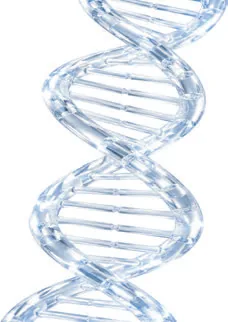
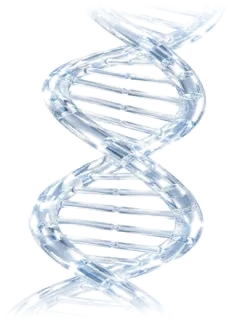
Slider görselleri, sayfa boyunca lipozom, saydam DNA görseli
- Kampanya slider: görseller hemen yüklenir (boş slayt yok), yakınlaştırma
  kaldırıldı (kenar kırpılması yok), noktalar banner'ın altına alındı,
  NAD+ mobil banner büyütüldü
- Lipozom açılıştan LED bölümüne kadar küçük canlı eşlikçi olarak kalır;
  formül bölümünde büyüyüp kesiti açılır, LED'de ışık rengini alır
- dna-crystal.webp saydam zemin (koyu sayfalarda beyaz kutu görünüyordu)

Claude-Session: https://claude.ai/code/session_01XvpMot7LqxZbjZwDPzSGNi

Changed region(s): [[0.0, 0.8696, 0.7982, 1.0], [0.3377, 0.0, 1.0, 0.1242]]

diff --git a/assets/lab/lab.js b/assets/lab/lab.js
@@ -133,6 +133,7 @@ function unlockLed() {
 new IntersectionObserver((es) => { if (es[0].isIntersecting) { ensureSrc(ledVideo); unlockLed(); } }, { rootMargin: '150% 0px' }).observe(S.led.el);
 ['touchstart', 'pointerdown', 'keydown'].forEach((ev) => addEventListener(ev, unlockLed, { once: true, passive: true }));
 let ledLast = -1;
+let ledColor = [0.69, 0.3, 1];
 function updateLed(y) {
   if (!ledVideo) return;
   const p = prog('led', y);
@@ -147,6 +148,7 @@ function updateLed(y) {
     ledLast = idx;
     ledItems.forEach((l, n) => l.el.classList.toggle('on', n === idx && p > -0.05));
     if (ledMedia && idx >= 0) ledMedia.style.setProperty('--led-glow', ledItems[idx].c.trim() + '66');
+    if (idx >= 0) { const n = parseInt(ledItems[idx].c.trim().slice(1), 16); ledColor = [((n >> 16) & 255) / 255, ((n >> 8) & 255) / 255, (n & 255) / 255]; }
   }
 }
 
@@ -253,9 +255,11 @@ function base() {
     top: C.white, bot: C.silver, acc: C.pink, glow: 0.3, rays: 0, caustic: 0, dark: 0,
     pA: 0.7, pCol: C.pinkP, pSpeed: 1,
     surf: 0, rip: 0, cream: 0, mist: 0,
-    lipo: 0, build: 0, cut: 0
+    // Lipozom her bölümde eşlik eder: lanch 1 = ekrana sabit küçük eşlikçi, 0 = sahnede (formül)
+    lipo: 1, build: 1, cut: 0, lanch: 1, lsp: isPhone ? [0.56, 0.64] : [-0.62, 0.5], ld: 6, lsc: isPhone ? 0.22 : 0.26, emis: [0, 0, 0]
   };
 }
+const companion = (P, desk, phone, size) => { P.lanch = 1; P.lsp = isPhone ? phone : desk; P.lsc = size * (isPhone ? 0.8 : 1); return P; };
 function S1(p) {
   const P = base();
   const a = ease(seg(p, 0, 0.72));
@@ -287,13 +291,16 @@ function S2(p) {
   P.acc = pick(C.pink, C.orange, C.teal, C.rose); P.pCol = pick(C.pinkP, C.orP, C.tlP, C.rgP);
   P.glow = 0.55; P.rays = (w1 - w2) * 0.9 + w3 * 0.35; P.caustic = 0.18 + (w1 - w2) * 0.35 + (w2 - w3) * 0.2;
   P.pA = 0.85;
-  return P;
+  return companion(P, [0.8, 0.6], [0.6, 0.66], 0.2);
 }
 function CALM() {
   const P = base();
   P.cam = [0, 0, 8]; P.look = [0, 0, 0]; P.by = 0; P.d0 = 1; P.floor = 0;
   P.top = C.white; P.bot = hex('#E9E9EB'); P.acc = C.pink; P.glow = 0.18; P.pA = 0.2; P.pCol = hex('#E6C9D6'); P.pSpeed = 0.4;
-  return P;
+  return companion(P, [-0.8, -0.62], [0.62, 0.7], 0.26);
+}
+function RUT() {
+  return companion(CALM(), [0.8, 0.42], [0.62, 0.72], 0.34);
 }
 function S3(p) {
   const P = CALM();
@@ -306,7 +313,7 @@ function S3(p) {
   P.sph = 0.12; P.thick = 0.5; P.dropOn = seg(p, 0.01, 0.07) * (1 - i); P.tint = C.serum;
   P.surf = seg(p, 0, 0.1); P.rip = seg(p, 0.36, 0.64); P.cream = easeOut(seg(p, 0.44, 0.8)) * 0.62; P.mist = seg(p, 0.72, 1);
   P.top = C.skinTop; P.bot = C.skinBot; P.acc = C.peach; P.glow = 0.3; P.pA = 0.2; P.pCol = hex('#F4C9B5');
-  return P;
+  return companion(P, [0.74, 0.5], [0.6, 0.66], 0.24);
 }
 function S4(p) {
   const P = CALM();
@@ -315,14 +322,16 @@ function S4(p) {
   P.look = [isPhone ? 0 : 0.3, isPhone ? -0.5 : 0, 0];
   const s = lerp(0.3, 1.02, ease(seg(p, 0, 0.16)));
   P.dropPos = [0, isPhone ? 0.4 : 0, 0]; P.dropS = [s, s, s]; P.sph = 1; P.thick = 1.4; P.tint = C.water; P.dropOn = 1;
-  P.lipo = seg(p, 0.04, 0.14); P.build = seg(p, 0.06, 0.32); P.cut = ease(seg(p, 0.16, 0.44));
+  P.lipo = 1; P.build = 1; P.cut = ease(seg(p, 0.16, 0.44));
+  P.lanch = 0; P.lsc = lerp(0.4, isPhone ? 0.72 : 1, ease(seg(p, 0, 0.2)));
   P.top = C.white; P.bot = hex('#E1E4E9'); P.acc = C.blue; P.glow = 0.35; P.pA = 0.12; P.pCol = hex('#B9D3EE');
   return P;
 }
 function LEDP() {
   const P = CALM();
-  P.top = hex('#0B0B0D'); P.bot = hex('#050506'); P.acc = hex('#7A3BFF'); P.dark = 1; P.glow = 0.4; P.pA = 0;
-  return P;
+  P.top = hex('#0B0B0D'); P.bot = hex('#050506'); P.acc = ledColor; P.dark = 1; P.glow = 0.4; P.pA = 0;
+  P.emis = ledColor.map((v) => v * 0.45);
+  return companion(P, [-0.12, -0.42], [0.6, 0.7], 0.36);
 }
 function timeline(y) {
   let P = S1(clamp(prog('acilis', y)));
@@ -331,6 +340,7 @@ function timeline(y) {
   P = blend(P, S3(clamp(prog('doku', y))), enter('doku', y));
   P = blend(P, S4(clamp(prog('formul', y))), enter('formul', y));
   P = blend(P, CALM(), enter('galeri', y));
+  P = blend(P, RUT(), enter('rutin', y));
   P = blend(P, LEDP(), enter('led', y));
   return P;
 }
@@ -726,16 +736,12 @@ async function initGL() {
   }
   resize();
 
-  let lastKey = '';
+  const vR = new THREE.Vector3(), vU = new THREE.Vector3(), vF = new THREE.Vector3(), vS = new THREE.Vector3(), vW = new THREE.Vector3(), vN = new THREE.Vector3();
   function frame(P, t) {
     const idle = reduce ? 0 : 1;
-    // Ekran tamamen sabit ve görünmezken (LED videosu tam ekran, footer) çizimi atla
-    const key = P.dark > 0.999 ? 'dark' : '';
-    if (key && key === lastKey) return;
-    lastKey = key;
-
     camera.position.set(P.cam[0], P.cam[1], P.cam[2]);
     camera.lookAt(P.look[0], P.look[1], P.look[2]);
+    camera.updateMatrixWorld();
     col(P.top, bgU.uTop.value); col(P.bot, bgU.uBot.value); col(P.acc, bgU.uAcc.value);
     bgU.uGlow.value = P.glow; bgU.uRays.value = P.rays; bgU.uCaustic.value = P.caustic; bgU.uDark.value = P.dark; bgU.uTime.value = t;
 
@@ -774,15 +780,27 @@ async function initGL() {
 
     lipo.visible = P.lipo > 0.01;
     if (lipo.visible) {
-      lipo.position.copy(drop.position);
-      lipo.scale.setScalar(lerp(0.001, isPhone ? 0.72 : 1, ease(P.lipo)));
-      lipo.rotation.set(0.25, scrollY * 0.0004, 0.1);
+      // Ekrana sabit eşlikçi konumu ile sahnedeki (formül) konum arasında karışım
+      const e = camera.matrixWorld.elements;
+      vR.set(e[0], e[1], e[2]); vU.set(e[4], e[5], e[6]); vF.set(-e[8], -e[9], -e[10]);
+      const tanH = Math.tan(THREE.MathUtils.degToRad(camera.fov / 2));
+      vS.copy(vF).addScaledVector(vR, P.lsp[0] * tanH * camera.aspect).addScaledVector(vU, P.lsp[1] * tanH).multiplyScalar(P.ld).add(camera.position);
+      vW.set(P.dropPos[0], P.dropPos[1], P.dropPos[2]);
+      lipo.position.copy(vW).lerp(vS, P.lanch);
+      const breathe = 1 + 0.03 * Math.sin(t * 1.3) * idle;
+      lipo.scale.setScalar(Math.max(0.001, P.lsc * P.lipo * breathe));
+      lipo.rotation.set(0.25 + t * 0.04 * idle * P.lanch, t * 0.16 * idle * P.lanch + scrollY * 0.0004, 0.1);
       buildU.value = P.build * 1.3;
-      clipPlane.constant = lerp(2.4, -0.1, P.cut);
-      actIn.uA.value = 0.9 * P.lipo * P.cut; actMid.uA.value = 0.8 * P.lipo * P.build;
+      if (P.cut > 0.002) {
+        vN.copy(camera.position).sub(lipo.position).normalize();
+        clipPlane.normal.copy(vN).negate();
+        clipPlane.constant = vN.dot(lipo.position) + lerp(2.4, -0.1, P.cut) * lipo.scale.x;
+      } else { clipPlane.normal.set(0, 0, -1); clipPlane.constant = 1e5; }
+      col(P.emis, headMat.emissive); col(P.emis.map((v) => v * 0.6), tailMat.emissive);
+      actIn.uA.value = 0.9 * P.cut; actMid.uA.value = 0.8 * P.build;
       actIn.uTime.value = t; actMid.uTime.value = t;
       lipo.updateMatrixWorld();
-      placeLabels();
+      if (P.lanch < 0.5) placeLabels();
     }
     renderer.render(scene, camera);
   }

diff --git a/index.html b/index.html
@@ -107,6 +107,7 @@
       </div>
     </div>
     <div class="car" data-car role="region" aria-roledescription="carousel" aria-label="Kampanyalar">
+      <div class="car-view">
       <div class="car-track">
         <a class="slide slide-video" href="#led" aria-roledescription="slide" aria-label="1 / 6 · Playskin LED Face Mask">
           <video class="sv-video" muted loop playsinline preload="none" data-src-desktop="assets/lab/video/led-neon.mp4" data-src-phone="assets/lab/video/led-story.mp4" poster="assets/lab/video/led-neon-poster.jpg" aria-hidden="true"></video>
@@ -117,20 +118,21 @@
           </span>
         </a>
         <a class="slide" href="https://www.playskin.com.tr/urun/nad-peptide-boosting-concentrate-serum/" aria-roledescription="slide" aria-label="2 / 6 · NAD+ Peptide serisi">
-          <picture><source media="(max-width: 760px)" srcset="assets/lab/slider/nad-mobil.webp"><img src="assets/lab/slider/nad-web.webp" alt="Beklenen NAD+ Peptide serisi stoklarda! Cildinin enerjisini yeniden keşfet." width="1939" height="811" loading="lazy"></picture>
+          <picture><source media="(max-width: 760px)" srcset="assets/lab/slider/nad-mobil.webp"><img src="assets/lab/slider/nad-web.webp" alt="Beklenen NAD+ Peptide serisi stoklarda! Cildinin enerjisini yeniden keşfet." width="1939" height="811" decoding="async"></picture>
         </a>
         <a class="slide" href="https://www.playskin.com.tr/urun/cc-cream/" aria-roledescription="slide" aria-label="3 / 6 · CC Cream">
-          <picture><source media="(max-width: 760px)" srcset="assets/lab/slider/cc-mobil.webp"><img src="assets/lab/slider/cc-web.webp" alt="CC Cream: cilt tonunda dengeli bir görünüm. SPF 40 içeren hafif dokusuyla günlük bakım rutinine eşlik eder." width="1939" height="811" loading="lazy"></picture>
+          <picture><source media="(max-width: 760px)" srcset="assets/lab/slider/cc-mobil.webp"><img src="assets/lab/slider/cc-web.webp" alt="CC Cream: cilt tonunda dengeli bir görünüm. SPF 40 içeren hafif dokusuyla günlük bakım rutinine eşlik eder." width="1939" height="811" decoding="async"></picture>
         </a>
         <a class="slide" href="https://www.playskin.com.tr/urun/derma-calm-recovery-cream/" aria-roledescription="slide" aria-label="4 / 6 · Derma Calm Recovery Cream">
-          <picture><source media="(max-width: 760px)" srcset="assets/lab/slider/dermacalm-mobil.webp"><img src="assets/lab/slider/dermacalm-web.webp" alt="Derma Calm Recovery Cream: profesyonel bakım sonrası cilt bakımına eşlik eder." width="1939" height="811" loading="lazy"></picture>
+          <picture><source media="(max-width: 760px)" srcset="assets/lab/slider/dermacalm-mobil.webp"><img src="assets/lab/slider/dermacalm-web.webp" alt="Derma Calm Recovery Cream: profesyonel bakım sonrası cilt bakımına eşlik eder." width="1939" height="811" decoding="async"></picture>
         </a>
         <a class="slide" href="urunler.html#katalog" aria-roledescription="slide" aria-label="5 / 6 · Exoline serisi">
-          <picture><source media="(max-width: 760px)" srcset="assets/lab/slider/exoline-mobil.webp"><img src="assets/lab/slider/exoline-web.webp" alt="Exoline serisi: exosome ve liposome teknolojisi, cilt bakımında ileri teknoloji." width="1939" height="811" loading="lazy"></picture>
+          <picture><source media="(max-width: 760px)" srcset="assets/lab/slider/exoline-mobil.webp"><img src="assets/lab/slider/exoline-web.webp" alt="Exoline serisi: exosome ve liposome teknolojisi, cilt bakımında ileri teknoloji." width="1939" height="811" decoding="async"></picture>
         </a>
         <a class="slide" href="urunler.html#katalog" aria-roledescription="slide" aria-label="6 / 6 · Kore cam cilt protokolü">
-          <picture><source media="(max-width: 760px)" srcset="assets/lab/slider/korecamcilt-mobil.webp"><img src="assets/lab/slider/korecamcilt-web.webp" alt="Kore cam cilt protokolü: profesyoneller için geliştirilmiş, yüksek performanslı bakım rutini." width="1940" height="806" loading="lazy"></picture>
+          <picture><source media="(max-width: 760px)" srcset="assets/lab/slider/korecamcilt-mobil.webp"><img src="assets/lab/slider/korecamcilt-web.webp" alt="Kore cam cilt protokolü: profesyoneller için geliştirilmiş, yüksek performanslı bakım rutini." width="1940" height="806" decoding="async"></picture>
         </a>
+      </div>
       </div>
       <div class="car-dots" role="group" aria-label="Slayt seç"></div>
     </div>

diff --git a/assets/lab/lab.css b/assets/lab/lab.css
@@ -88,22 +88,21 @@ main{position:relative;z-index:1}
 .car-ctrl{display:flex;gap:10px}
 .car-btn{width:52px;height:52px;border-radius:50%;border:1.5px solid rgba(20,20,22,.22);background:rgba(255,255,255,.7);color:var(--ink);display:flex;align-items:center;justify-content:center;cursor:pointer;transition:background .3s,color .3s,border-color .3s}
 .car-btn:hover{background:var(--ink);color:var(--white);border-color:var(--ink)}
-.car{position:relative;border-radius:32px;overflow:hidden;background:#E9E8E6;box-shadow:0 30px 80px rgba(20,20,22,.10);touch-action:pan-y}
+.car{position:relative;touch-action:pan-y}
+.car-view{border-radius:32px;overflow:hidden;background:#E9E8E6;box-shadow:0 30px 80px rgba(20,20,22,.10)}
 .car-track{display:flex;transition:transform .9s cubic-bezier(.7,0,.2,1)}
 .slide{flex:0 0 100%;position:relative;display:block;aspect-ratio:1939/811;overflow:hidden;color:inherit;text-decoration:none}
 .slide picture,.slide img{width:100%;height:100%;object-fit:cover}
-.slide img{transition:transform 6s ease-out}
-.slide[aria-current="true"] img{transform:scale(1.04)}
 .slide-video{background:#07070A;color:#F2F2F0;display:grid;grid-template-columns:1fr minmax(0,.62fr)}
 .sv-video{grid-column:2;grid-row:1;width:100%;height:100%;object-fit:cover}
 .sv-text{grid-column:1;grid-row:1;display:flex;flex-direction:column;justify-content:center;gap:16px;padding:clamp(24px,5vw,80px)}
 .sv-text .eyebrow{color:#C48BFF}
 .sv-title{font-size:clamp(2rem,4.6vw,4.8rem);font-weight:600;line-height:.95;letter-spacing:-.04em}
 .sv-cta{align-self:flex-start;display:inline-flex;align-items:center;min-height:48px;padding:0 22px;border-radius:999px;background:#F2F2F0;color:#0B0B0D;font-size:14px;font-weight:600}
-.car-dots{position:absolute;left:0;right:0;bottom:16px;display:flex;justify-content:center;gap:8px;pointer-events:none}
-.car-dot{pointer-events:auto;width:44px;height:28px;border:0;padding:0;background:none;cursor:pointer;display:flex;align-items:center}
-.car-dot span{display:block;width:100%;height:3px;border-radius:3px;background:rgba(255,255,255,.55);overflow:hidden;box-shadow:0 0 0 1px rgba(20,20,22,.08)}
-.car-dot span i{display:block;height:100%;width:100%;background:#FFFFFF;transform-origin:0 50%;transform:scaleX(0)}
+.car-dots{display:flex;justify-content:center;gap:8px;padding-top:14px}
+.car-dot{width:44px;height:28px;border:0;padding:0;background:none;cursor:pointer;display:flex;align-items:center}
+.car-dot span{display:block;width:100%;height:3px;border-radius:3px;background:rgba(20,20,22,.14);overflow:hidden}
+.car-dot span i{display:block;height:100%;width:100%;background:var(--ink);transform-origin:0 50%;transform:scaleX(0)}
 .car-dot[aria-current="true"] span i{transform:scaleX(var(--k,1))}
 
 /* galeri — yatay akış */
@@ -211,11 +210,11 @@ main{position:relative;z-index:1}
   .leaders{display:none}
   .lbl{left:var(--gutter)!important;top:auto!important;bottom:20px;width:auto;right:var(--gutter)}
   .note{top:84px;bottom:auto}
-  .car{border-radius:24px}
+  .car-view{border-radius:24px}
   .slide{aspect-ratio:2/3}
   .slide-video{display:block}
   .sv-video{position:absolute;inset:0}
-  .sv-text{position:absolute;left:0;right:0;bottom:0;padding:24px 20px 56px;background:linear-gradient(0deg,rgba(7,7,10,.85),rgba(7,7,10,0))}
+  .sv-text{position:absolute;left:0;right:0;bottom:0;padding:24px 20px 28px;background:linear-gradient(0deg,rgba(7,7,10,.85),rgba(7,7,10,0))}
   .car-btn{width:48px;height:48px}
   .gcard{height:62vh}
   .newin-grid{grid-template-columns:1fr}
